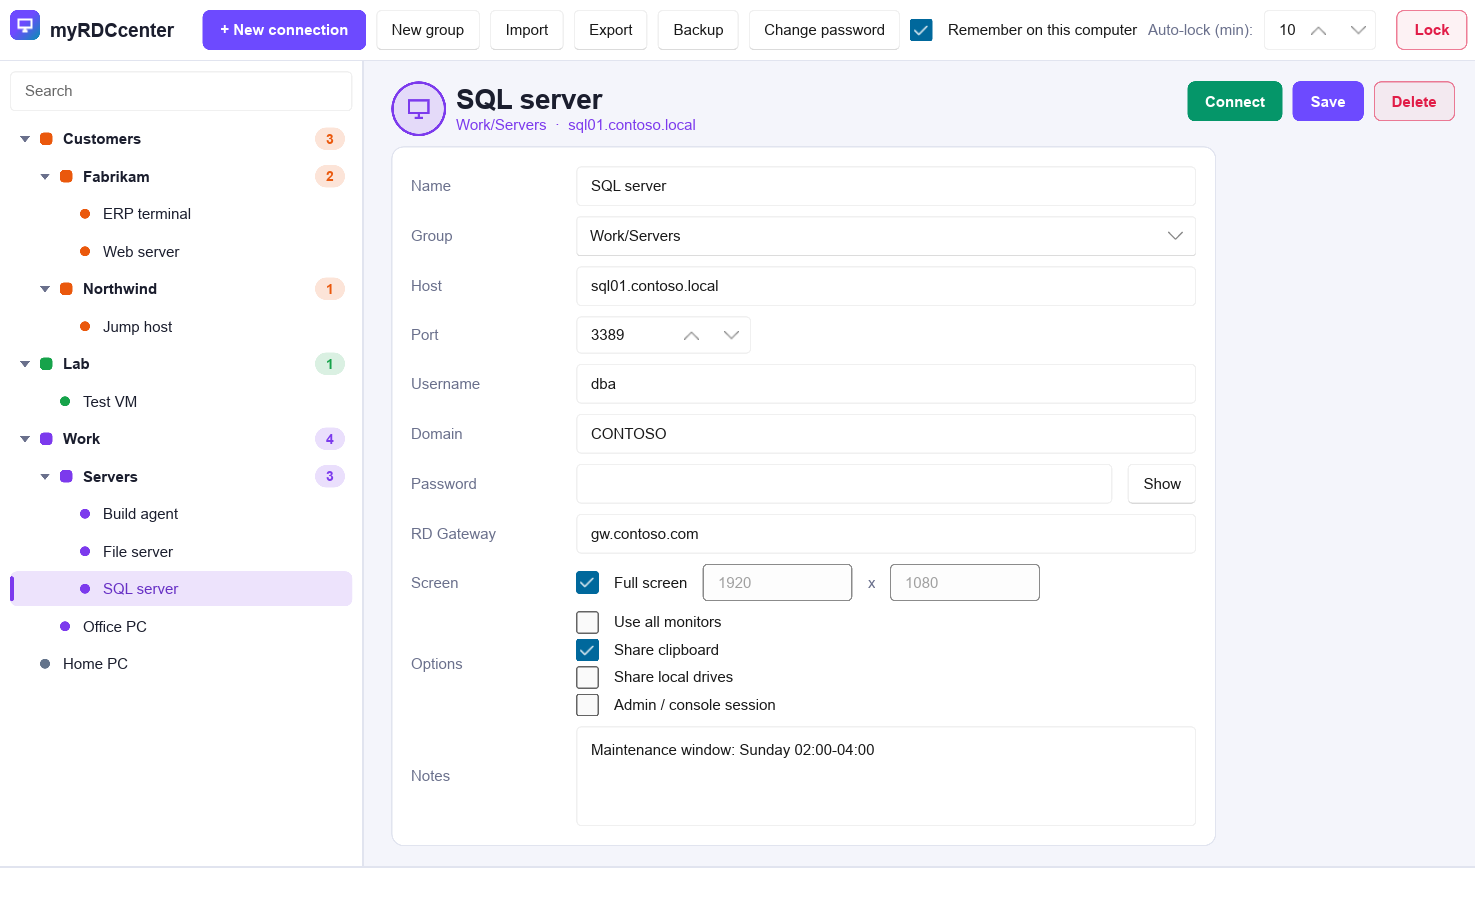
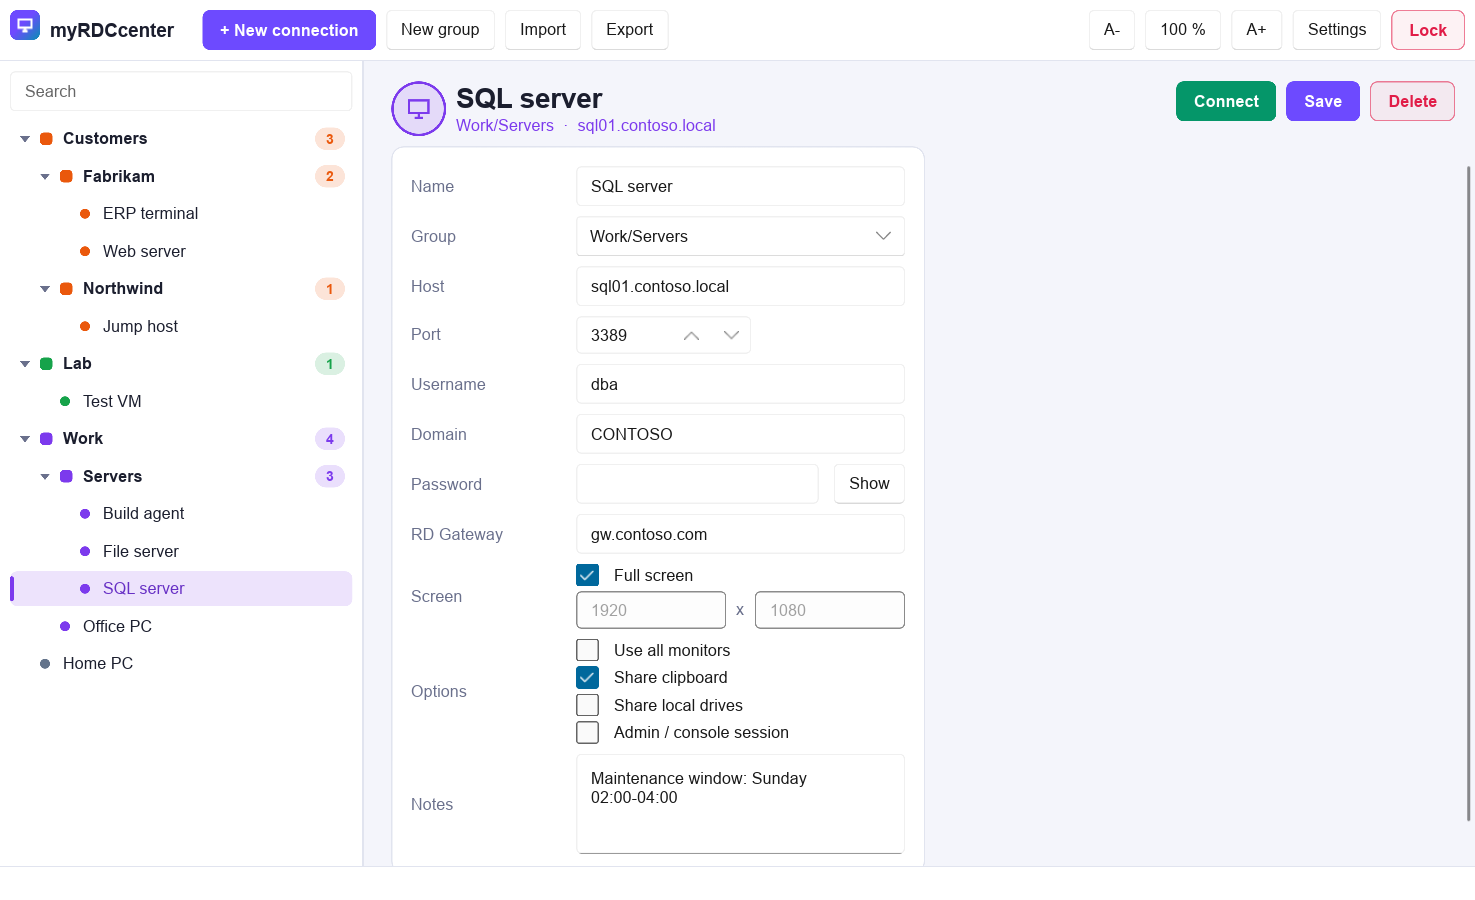
Move vault settings into a Settings dialog; fit the Slint form to narrow windows
The toolbar was wider than a small window (or a window on a 150 % screen),
so Lock and the text size buttons were cut off. Backup, Change password,
Remember on this computer and Auto-lock are now in a Settings dialog in
both apps.

Slint: the connection form takes the width it has (max 660px), the screen
size boxes go on their own line, the list gets narrower first, and the
window grows back to its minimum size after a scale change.

diff --git a/app-egui/src/main.rs b/app-egui/src/main.rs
@@ -81,6 +81,8 @@ struct OpenVault {
     status: String,
     confirm_delete: bool,
     change_pw: Option<(String, String)>,
+    /// The Settings dialog is open.
+    settings_open: bool,
     remembered: bool,
     /// Group selected in the tree (when no connection is selected).
     selected_group: Option<String>,
@@ -389,6 +391,7 @@ impl OpenVault {
             status: String::new(),
             confirm_delete: false,
             change_pw: None,
+            settings_open: false,
             remembered,
             selected_group: None,
             group_dialog: None,
@@ -451,36 +454,12 @@ impl OpenVault {
                 if ui.button("Export").on_hover_text("Copy or move connections to another computer").clicked() {
                     self.open_export(None);
                 }
-                if ui.button("Backup").clicked() {
-                    self.backup();
-                }
-                if ui.button("Change password").clicked() {
-                    self.change_pw = Some(Default::default());
-                }
-                ui.separator();
-                if keystore::SUPPORTED {
-                    let r = ui.checkbox(&mut self.remembered, "Remember on this computer").on_hover_text(keystore::label());
-                    if r.changed() {
-                        self.status = match self.vault.set_remembered(self.remembered) {
-                            Ok(()) if self.remembered => "The vault now opens with your computer login".into(),
-                            Ok(()) => "The vault now asks for the master password".into(),
-                            Err(e) => {
-                                self.remembered = false;
-                                e
-                            }
-                        };
-                    }
-                    ui.separator();
-                }
-                ui.label("Auto-lock (min):");
-                let mut mins = self.vault.data.settings.auto_lock_minutes;
-                if ui.add(egui::DragValue::new(&mut mins).range(0..=240)).changed() {
-                    self.vault.data.settings.auto_lock_minutes = mins;
-                    let _ = self.vault.save();
-                }
                 ui.with_layout(egui::Layout::right_to_left(egui::Align::Center), |ui| {
                     if ui.add(outline_button("Lock", theme::DANGER)).clicked() {
                         lock = true;
+                    }
+                    if ui.button("Settings").on_hover_text("Backup, master password, auto-lock").clicked() {
+                        self.settings_open = true;
                     }
                     ui.separator();
                     if ui.small_button("A+").on_hover_text("Larger text (Ctrl +)").clicked() {
@@ -516,6 +495,7 @@ impl OpenVault {
         let main = egui::Frame::new().fill(col(theme::BG)).inner_margin(egui::Margin::same(16));
         egui::CentralPanel::default().frame(main).show(ui, |ui| self.detail_ui(ui));
 
+        self.settings_ui(ui);
         self.change_password_ui(ui);
         self.group_dialog_ui(ui);
         self.export_dialog_ui(ui);
@@ -1093,6 +1073,59 @@ impl OpenVault {
             Ok(()) => format!("Encrypted backup saved to {}", dest.display()),
             Err(e) => e.to_string(),
         };
+    }
+
+    fn settings_ui(&mut self, ui: &mut egui::Ui) {
+        if !self.settings_open {
+            return;
+        }
+        let mut close = false;
+        let r = egui::Modal::new(egui::Id::unique("settings")).show(ui.ctx(), |ui| {
+            ui.set_width(380.0);
+            ui.heading("Settings");
+            ui.add_space(8.0);
+            ui.label(RichText::new("Vault").strong());
+            ui.horizontal(|ui| {
+                if ui.button("Backup...").clicked() {
+                    close = true;
+                    self.backup();
+                }
+                if ui.button("Change password").clicked() {
+                    close = true;
+                    self.change_pw = Some(Default::default());
+                }
+            });
+            if keystore::SUPPORTED {
+                let r = ui.checkbox(&mut self.remembered, "Remember on this computer").on_hover_text(keystore::label());
+                if r.changed() {
+                    self.status = match self.vault.set_remembered(self.remembered) {
+                        Ok(()) if self.remembered => "The vault now opens with your computer login".into(),
+                        Ok(()) => "The vault now asks for the master password".into(),
+                        Err(e) => {
+                            self.remembered = false;
+                            e
+                        }
+                    };
+                }
+            }
+            ui.horizontal(|ui| {
+                ui.label("Auto-lock after (minutes, 0 = never):");
+                let mut mins = self.vault.data.settings.auto_lock_minutes;
+                if ui.add(egui::DragValue::new(&mut mins).range(0..=240)).changed() {
+                    self.vault.data.settings.auto_lock_minutes = mins;
+                    let _ = self.vault.save();
+                }
+            });
+            ui.add_space(8.0);
+            ui.with_layout(egui::Layout::right_to_left(egui::Align::Min), |ui| {
+                if ui.add(filled_button("Close", theme::ACCENT)).clicked() {
+                    close = true;
+                }
+            });
+        });
+        if close || r.should_close() {
+            self.settings_open = false;
+        }
     }
 
     fn change_password_ui(&mut self, ui: &mut egui::Ui) {

diff --git a/app-slint/src/main.rs b/app-slint/src/main.rs
@@ -639,7 +639,21 @@ fn set_scale(window: &slint::Window, scale: f32) {
     window.dispatch_event(WindowEvent::ScaleFactorChanged { scale_factor: scale });
     let size = window.size().to_logical(scale);
     window.dispatch_event(WindowEvent::Resized { size });
+    // A larger scale can make the window smaller than its minimum size
+    // (MainWindow min-width / min-height). Windows doesn't grow it by itself.
+    let (min_w, min_h) = (MIN_WIDTH * scale, MIN_HEIGHT * scale);
+    let phys = window.size();
+    if (phys.width as f32) < min_w || (phys.height as f32) < min_h {
+        window.set_size(slint::PhysicalSize::new(
+            phys.width.max(min_w.ceil() as u32),
+            phys.height.max(min_h.ceil() as u32),
+        ));
+    }
 }
+
+/// Same as `min-width` / `min-height` of MainWindow in app.slint.
+const MIN_WIDTH: f32 = 720.0;
+const MIN_HEIGHT: f32 = 440.0;
 
 const ALL_CONNECTIONS: &str = "All connections";
 
@@ -706,6 +720,7 @@ fn lock(ui: &MainWindow, s: &Shared) {
     ui.set_has_draft(false);
     ui.set_rows(ModelRc::default());
     ui.set_change_pw_open(false);
+    ui.set_settings_open(false);
     ui.set_group_dialog_open(false);
     ui.set_selected_group("".into());
     ui.set_show_password(false);

diff --git a/README.md b/README.md
@@ -131,17 +131,24 @@ The app keeps the text size on this computer. It does not go into the vault or i
 
 ## Keep your vault safe
 
-- **Backup** saves an encrypted copy of the vault. Do this regularly.
-- **Change password** changes the master password.
-- **Lock** closes the vault. The app asks for the master password again.
-- **Auto-lock (min)** locks the vault after some minutes with no activity. Set it to 0 to stop auto-lock.
+**Lock** in the toolbar closes the vault. The app asks for the master password again.
+
+The other vault settings are in **Settings**:
+
+| Setting | Use |
+|---|---|
+| **Backup...** | Saves an encrypted copy of the vault. Do this regularly. |
+| **Change password** | Changes the master password. |
+| **Remember on this computer** | Opens the vault with your computer login. See below. |
+| **Auto-lock after** | Locks the vault after some minutes with no activity. Set it to 0 to stop auto-lock. |
 
 ### Remember on this computer
 
 On Windows and macOS, you can open the vault without the master password.
 
-1. Select **Remember on this computer**.
-2. The next time, the app opens the vault with your computer login.
+1. Click **Settings**.
+2. Select **Remember on this computer**.
+3. The next time, the app opens the vault with your computer login.
 
 Anybody who can log in to your computer as you can then open the vault. To stop this, clear **Remember on this computer**.
 
